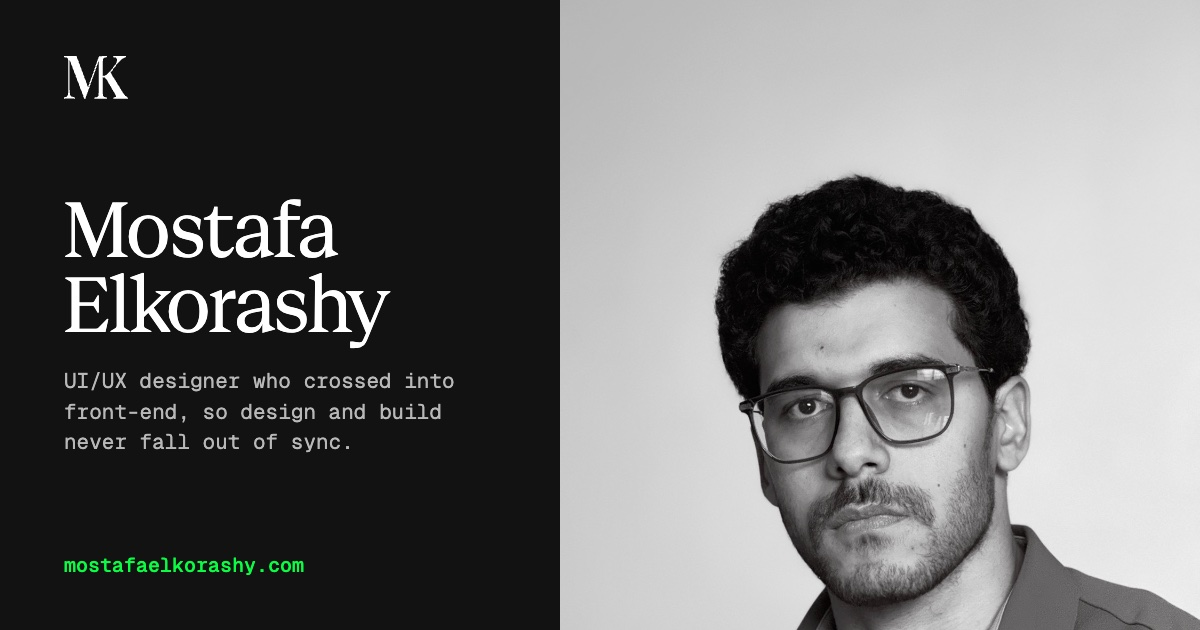
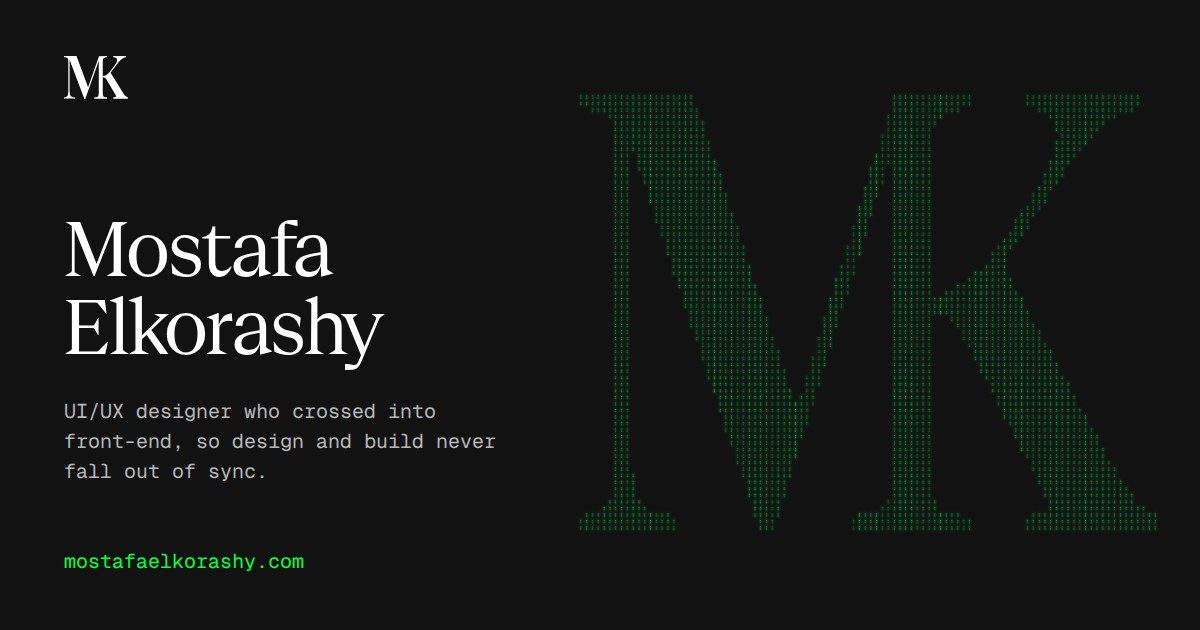
Home link preview: ASCII MK instead of the photo
- og-home.jpg (1200x630) shows the green ASCII MK on the right
- og:image URL gets ?v=2 so social platforms refetch it

diff --git a/index.html b/index.html
@@ -18,7 +18,7 @@
   <meta property="og:url" content="https://mostafaelkorashy.com/" />
   <meta property="og:title" content="Mostafa Elkorashy" />
   <meta property="og:description" content="UI/UX designer who crossed into front-end, so design and build never fall out of sync." />
-  <meta property="og:image" content="https://mostafaelkorashy.com/assets/images/og/og-home.jpg" />
+  <meta property="og:image" content="https://mostafaelkorashy.com/assets/images/og/og-home.jpg?v=2" />
   <meta property="og:image:width" content="1200" />
   <meta property="og:image:height" content="630" />
   <meta property="og:image:alt" content="Mostafa Elkorashy, UI/UX designer" />
